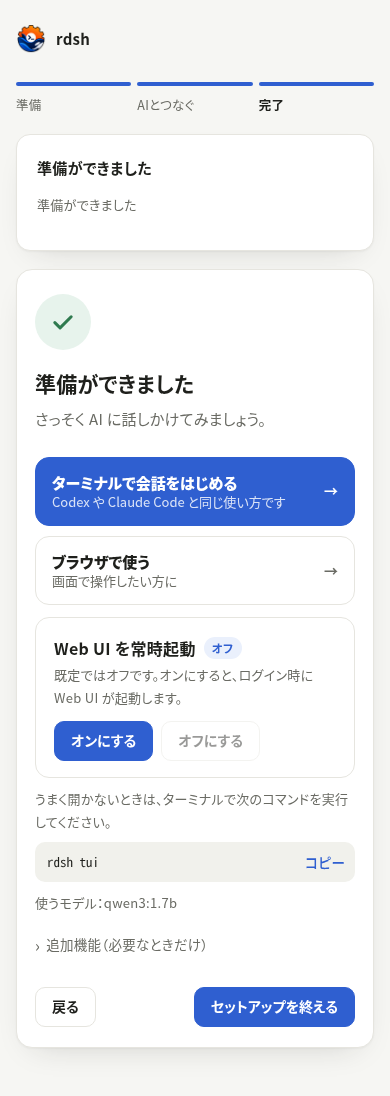
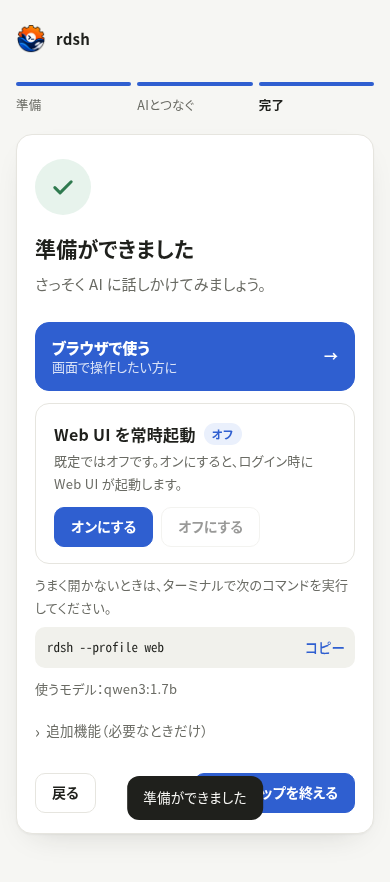
fix: guide fresh installations to the available web profile

diff --git a/src/setup.html b/src/setup.html
@@ -644,6 +644,7 @@ function renderFinish() {
   var starts = $("starts"); starts.replaceChildren();
   $("finish-cmd-hint").hidden = !env.dsh.found;
   $("finish-cmd").hidden = !env.dsh.found;
+  if ($("finish-cmd")) { var code = $("finish-cmd").querySelector("code"); if (code) code.textContent = env.tui ? "rdsh tui" : "rdsh --profile web"; }
   if (!connected) {
     var link = el("button", "primary", t("AIをつなぐ", "Connect an AI", "连接 AI"));
     link.onclick = function () { go("connect"); };
@@ -661,8 +662,8 @@ function renderFinish() {
   var chosenModel = window.rdshProvisionSelection && window.rdshProvisionSelection();
   if (env.desktop && !chosenModel) starts.append(startButton("desktop", t("DeepSeek Harness アプリを開く", "Open the DeepSeek Harness app", "打开 DeepSeek Harness 应用"), t("いちばん簡単です", "The easiest way", "最简单的方式"), true));
   if (env.dsh.found) {
-    if (!chosenModel || chosenModel.profiles.indexOf("tui") >= 0) starts.append(startButton("tui", t("ターミナルで会話をはじめる", "Chat in a terminal", "在终端中对话"), t("Codex や Claude Code と同じ使い方です", "Works like Codex or Claude Code", "用法与 Codex、Claude Code 相同"), !env.desktop || !!chosenModel));
-    if (!chosenModel || chosenModel.profiles.indexOf("web") >= 0) starts.append(startButton("web", t("ブラウザで使う", "Use it in your browser", "在浏览器中使用"), t("画面で操作したい方に", "If you prefer a visual interface", "适合喜欢图形界面的用户"), !!chosenModel && chosenModel.profiles.indexOf("tui") < 0));
+    if (env.tui && (!chosenModel || chosenModel.profiles.indexOf("tui") >= 0)) starts.append(startButton("tui", t("ターミナルで会話をはじめる", "Chat in a terminal", "在终端中对话"), t("Codex や Claude Code と同じ使い方です", "Works like Codex or Claude Code", "用法与 Codex、Claude Code 相同"), !env.desktop || !!chosenModel));
+    if (!chosenModel || chosenModel.profiles.indexOf("web") >= 0) starts.append(startButton("web", t("ブラウザで使う", "Use it in your browser", "在浏览器中使用"), t("画面で操作したい方に", "If you prefer a visual interface", "适合喜欢图形界面的用户"), !env.tui || (!!chosenModel && chosenModel.profiles.indexOf("tui") < 0)));
   }
   var model = (STATUS && STATUS.defaults || []).filter(function (d) { return d.state === "ok"; })[0];
   $("model-line").textContent = model ? t("使うモデル：", "Model: ", "使用模型：") + model.provider + " / " + model.model : "";

diff --git a/src/setup-provision.js b/src/setup-provision.js
@@ -92,7 +92,7 @@
     panel.hidden = !!(ENV && ENV.node && ENV.node.supported && ENV.dsh.found && ENV.pnpm);
     [runtimeButton, localButton, cloudButton, cloudSelect].forEach(function (button) { button.disabled = running || busy; });
     fieldset.disabled = running || busy;
-    progressBox.hidden = !running && !job.error && !job.ready;
+    progressBox.hidden = !running && !job.error;
     progress.hidden = !running;
     progressLabel.textContent = t.apply(null, phases[job.phase] || phases.preparing);
     cancel.hidden = !running; cancel.disabled = job.phase === "cancelling"; retry.hidden = running || !job.error || !lastRequest;
@@ -141,6 +141,7 @@
     if (state && state.job && state.job.running) poll = setTimeout(refresh, 1000);
     else if (state && state.job && state.job.ready && lastRequest) {
       var completed = lastRequest; lastRequest = null;
+      toast(t("準備ができました", "Ready", "准备就绪"));
       await loadEnv(); await load();
       if (completed.action === "codex") {
         try { await api("POST", "/api/login", {tool:"codex"}); pendingLogin = "codex"; renderOptions(); }

diff --git a/src/setup_wizard.rs b/src/setup_wizard.rs
@@ -30,6 +30,7 @@ pub fn env_json() -> String {
             "supported": node_major.is_some_and(|m| m >= 22),
         },
         "npm": crate::auth::command_on_path("npm"),
+        "tui": std::path::Path::new(&crate::inspect::dsh_home()).join("profiles/tui").is_dir(),
         "pnpm": crate::auth::command_on_path("pnpm") || crate::setup_models::root().is_ok_and(|p|p.join("bin").join(if cfg!(windows){"pnpm.cmd"}else{"pnpm"}).is_file()),
         "codex": crate::auth::command_on_path("codex"),
         "opencode": crate::auth::command_on_path("opencode"),
@@ -87,6 +88,13 @@ pub fn start_chat(kind: &str) -> anyhow::Result<()> {
                 .map(|_| ())
         }
         "tui" | "web" => {
+            anyhow::ensure!(
+                kind != "tui"
+                    || std::path::Path::new(&crate::inspect::dsh_home())
+                        .join("profiles/tui")
+                        .is_dir(),
+                "terminal profile is not installed; choose the browser option"
+            );
             anyhow::ensure!(
                 crate::passthrough::find_original_dsh().is_some(),
                 "DeepSeek Harness (dsh) is not installed"

diff --git a/docs/evidence/one-command-install/README.md b/docs/evidence/one-command-install/README.md
@@ -1,6 +1,6 @@
 # 初回の自動準備の検証
 
-2026-11-04 に Linux x64 で検証しました。画面は日本語、1280px と 390px 幅です。
+2026-11-04 に Linux x64 で検証しました。画面は日本語、1280px と 390px 幅です。変更前の画面は main の b6aac05b を使っています。
 
 ## 実配布物の確認
 
@@ -19,15 +19,17 @@
 追加で専用 Ollama のチャット API に短い入力を送り、ローカルモデルから `OK` の完了応答を確認しました。
 クラウドへの推論リクエストは送っていません。
 
+DSH alpha.3 の新規環境では TUI プロファイルがないことも確認しました。未導入の TUI を起動ボタンで案内せず、Web を優先します。
+
 ## 自動テスト
 
-- `sh scripts/check.sh quick`：fmt / clippy 警告ゼロ / Rust 1229 tests。
+- `sh scripts/check.sh quick`：fmt / clippy 警告ゼロ / Rust 1233 tests。
 - `tests/regress.sh`：117 checks、および doctor のパイプ切断テスト。
 - リリース関連 Python：154 tests。テスト用 Git リポジトリのみ tag.gpgsign=false を指定。
 - `scripts/crate-release.py check`：Windows インストーラを含むコンパイル入力が梱包されています。
 - `tests/runtime-bootstrap.sh`：pnpm 未導入、空白・引用符を含む HOME、native-only、改ざん Node アーカイブの拒否。
 - Node のカタログ / セキュリティ境界テスト：16 pass、実ランタイム用の未指定 fixture は 6 skip。
-- `tests/e2e/setup-provision.mjs`：12 checks。二重開始防止、進行状況、中止・再試行、
+- `tests/e2e/setup-provision.mjs`：16 checks。二重開始防止、進行状況、中止・再試行、
   モデル選択、既存接続の自動選択、プロファイルに応じた起動ボタン、390px 幅の横あふれなし。
 
 ブラウザテストは実際の HTML / JavaScript と模擬 API 応答を使います。

diff --git a/docs/SETUP.md b/docs/SETUP.md
@@ -233,33 +233,17 @@ rdsh plugins install --recommended=starter
 
 ---
 
-## 6. 会話を始める（どちらで使うか選ぶ）
+## 6. 会話を始める
 
-まず診断を流します。対話端末では、最後に **Web UI かターミナルか**を聞かれます。
-
-```sh
-rdsh doctor
-```
-
-```text
-[rdsh] 次の一手
-[rdsh]   同梱プラグインを補う: rdsh plugins install
-[rdsh] どこで使いますか？
-[rdsh]   1) Web UI（ブラウザ。自動で開きます）
-[rdsh]   2) ターミナル（この画面のまま）
-[rdsh] 選択 [1] 
-```
-
-- **1** … ブラウザで開きます（`http://127.0.0.1:3080`）
-- **2** … この端末のまま TUI が始まります
-- **そのまま Enter** … 画面のある機械なら Web UI、サーバーならターミナル
-
-コマンドを直接叩いても同じです。
+セットアップ完了画面で「ブラウザで使う」を押します。コマンドから開く場合はこちらです。
 
 ```sh
-rdsh --profile web        # ブラウザ（http://127.0.0.1:3080）
-rdsh tui                  # ターミナル
+rdsh --profile web
 ```
+
+既存の TUI プロファイルがある場合は、完了画面のターミナル起動か `rdsh tui` も使えます。
+DSH 0.2.2-alpha.3 は標準の TUI プロファイルを持たないため、新規環境ではブラウザを案内します。
+TUI の過去の導入例と互換性上の注意は [TUI-SETUP.md](TUI-SETUP.md) を参照してください。
 
 ### 成果物（ファイル）の保存
 
